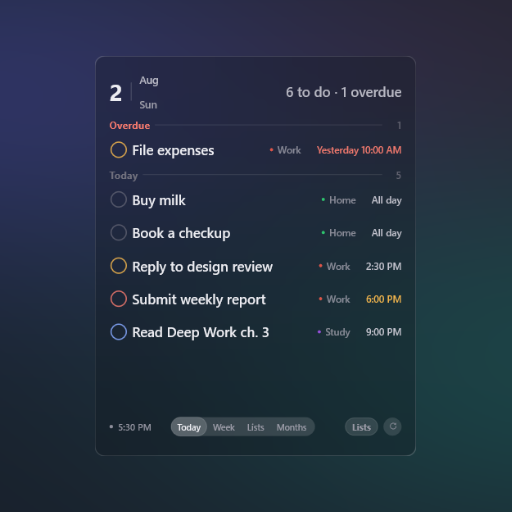
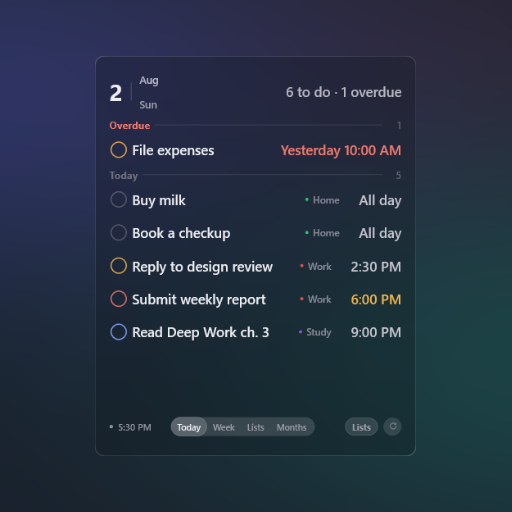
Row date matches the title size (1.0.2)

diff --git a/CHANGELOG.md b/CHANGELOG.md
@@ -2,6 +2,12 @@
 
 本组件遵循 [语义化版本](https://semver.org/lang/zh-CN/)。
 
+## 1.0.2 — 2026-11-15
+
+### 外观
+
+- 行右侧的日期 / 时间改为与任务标题同字号（之前低一号），项目名与清单计数仍小一号；逾期红色、临期琥珀色不变。
+
 ## 1.0.1 — 2026-11-15
 
 ### 外观
